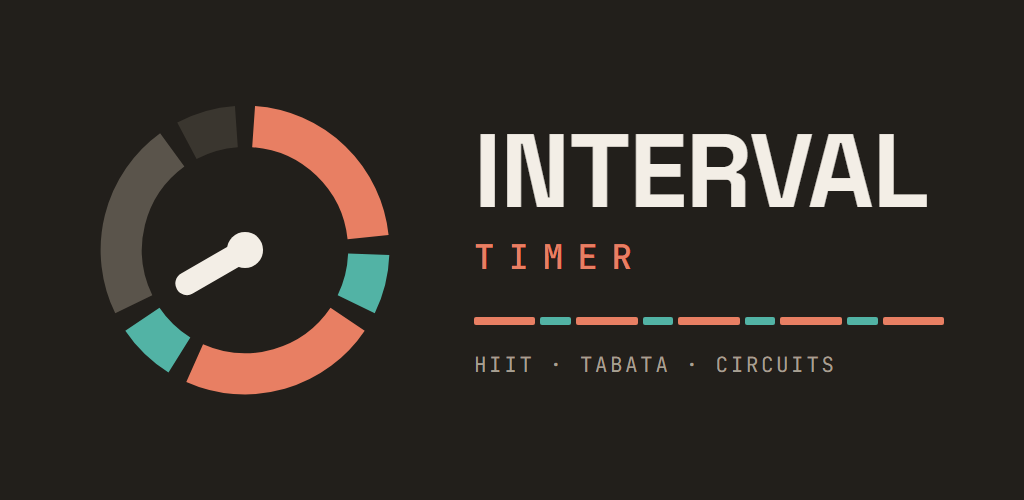
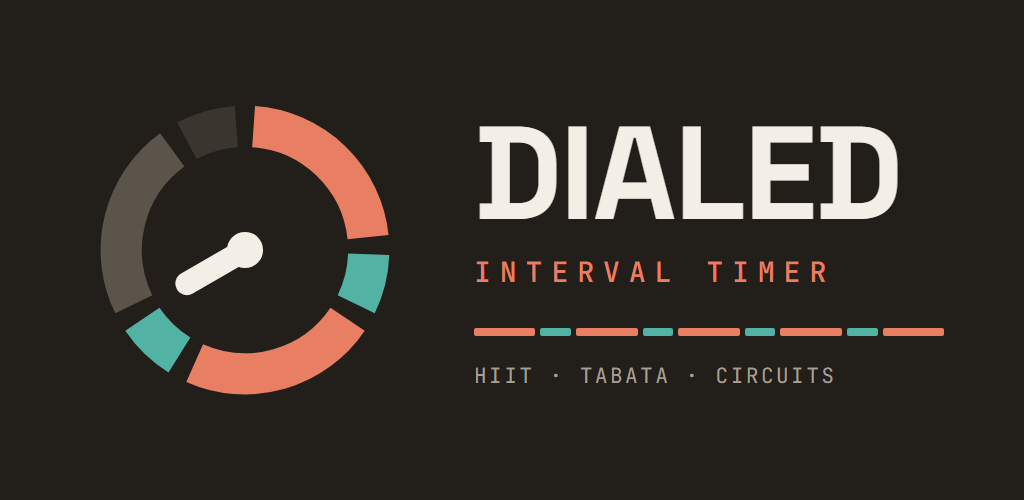
Rename the app to Dialed
The name people see is now "Dialed": the label on the phone and the watch
("Dialed Test" for debug builds), the Home wordmark (DIALED with INTERVAL
TIMER under it), the About line, the watch setup steps and the watch's
workout notification, which now reads the name from the app label.

Store listing, privacy policy (text and web page), feature graphic and the
Home screenshot are updated to match.

The package com.august.intervaltimer, the repo and the folder keep the old
name on purpose: a new package would be a different app to the phone, the
watch and Health Connect.

diff --git a/app/src/main/java/com/august/intervaltimer/ui/settings/DevicesCard.kt b/app/src/main/java/com/august/intervaltimer/ui/settings/DevicesCard.kt
@@ -107,7 +107,7 @@ fun DevicesCard(
         Spacer(Modifier.height(16.dp))
         if (!watchCues.loaded) {
             Text(
-                text = "Open Interval Timer on your watch once to load its settings here.",
+                text = "Open Dialed on your watch once to load its settings here.",
                 style = captionStyle(),
                 color = MaterialTheme.colorScheme.onSurfaceVariant,
             )
@@ -186,7 +186,7 @@ private fun WatchVersionsAndTemplates(watch: WatchDeviceState) {
         if (watch.connection == WatchConnection.CONNECTED) {
             Spacer(Modifier.height(8.dp))
             Text(
-                text = "Open Interval Timer on the watch to see its version and templates.",
+                text = "Open Dialed on the watch to see its version and templates.",
                 style = captionStyle(),
                 color = MaterialTheme.colorScheme.onSurfaceVariant,
             )
@@ -202,7 +202,7 @@ private fun WatchVersionsAndTemplates(watch: WatchDeviceState) {
     )
     if (watch.versionMismatch) {
         Text(
-            text = "Update Interval Timer on both the phone and the watch",
+            text = "Update Dialed on both the phone and the watch",
             style = captionStyle(),
             color = typeColor(IntervalType.WORK),
         )
@@ -277,14 +277,14 @@ fun TroubleshootingSteps(connection: WatchConnection) {
         WatchConnection.NO_WATCH -> listOf(
             "Pair the watch in the Pixel Watch or Galaxy Wearable app.",
             "Keep Bluetooth on, on the phone and the watch.",
-            "Install Interval Timer on the watch from the Play Store.",
+            "Install Dialed on the watch from the Play Store.",
         )
         WatchConnection.APP_MISSING -> listOf(
-            "Install Interval Timer on the watch: open the Play Store on the watch and look under Apps on your phone.",
-            "Open Interval Timer on the watch once.",
+            "Install Dialed on the watch: open the Play Store on the watch and look under Apps on your phone.",
+            "Open Dialed on the watch once.",
         )
         WatchConnection.NOT_REACHABLE -> listOf(
-            "Open Interval Timer on the watch.",
+            "Open Dialed on the watch.",
             "Check that Bluetooth is on.",
             "Keep the watch near the phone.",
         )

diff --git a/store/graphics/src/feature.html b/store/graphics/src/feature.html
@@ -5,10 +5,10 @@
 @font-face{font-family:"JetBrains Mono";src:url("../../../core/src/main/res/font/jetbrains_mono.ttf");font-weight:100 800}
 html,body{margin:0;width:1024px;height:500px;overflow:hidden;background:#221F1B}
 .wrap{position:absolute;inset:0;display:flex;align-items:center;justify-content:center;gap:64px}
-h1{margin:0;font-family:"Space Grotesk",sans-serif;font-weight:700;font-size:104px;line-height:.95;
-  letter-spacing:-1px;color:#F3EEE6}
-.timer{margin-top:14px;font-family:"JetBrains Mono",monospace;font-weight:500;font-size:34px;
-  letter-spacing:14px;color:#E87F63}
+h1{margin:0;font-family:"Space Grotesk",sans-serif;font-weight:700;font-size:132px;line-height:.95;
+  letter-spacing:-2px;color:#F3EEE6}
+.timer{margin-top:16px;font-family:"JetBrains Mono",monospace;font-weight:500;font-size:28px;
+  letter-spacing:9px;color:#E87F63}
 .strip{display:flex;gap:5px;margin-top:38px;width:470px}
 .strip i{display:block;height:8px;border-radius:2px}
 .w{background:#E87F63;flex:2}.r{background:#52B3A5;flex:1}
@@ -27,8 +27,8 @@ h1{margin:0;font-family:"Space Grotesk",sans-serif;font-weight:700;font-size:104
     <circle cx="54" cy="54" r="3.5" fill="#F3EEE6"/>
   </svg>
   <div>
-    <h1>INTERVAL</h1>
-    <div class="timer">TIMER</div>
+    <h1>DIALED</h1>
+    <div class="timer">INTERVAL TIMER</div>
     <div class="strip"><i class="w"></i><i class="r"></i><i class="w"></i><i class="r"></i><i class="w"></i><i class="r"></i><i class="w"></i><i class="r"></i><i class="w"></i></div>
     <div class="tag">HIIT · TABATA · CIRCUITS</div>
   </div>

diff --git a/store/privacy-policy.html b/store/privacy-policy.html
@@ -5,7 +5,7 @@
 <head>
 <meta charset="utf-8">
 <meta name="viewport" content="width=device-width, initial-scale=1">
-<title>Privacy Policy — Interval Timer</title>
+<title>Privacy Policy — Dialed</title>
 <style>
   :root { color-scheme: light dark; }
   body { margin: 0; background: #FAF6EE; color: #221F1B;
@@ -26,10 +26,10 @@
 </head>
 <body>
 <main>
-<h1>Privacy Policy — Interval Timer</h1>
+<h1>Privacy Policy — Dialed</h1>
 <p class="date">Last updated: 10 November 2026</p>
 
-<p>Interval Timer ("the app") is published by August. It has a phone app and a Wear OS watch app. This policy explains what they do with your information. The short version: your workouts stay on your own devices, and nothing is sent to the publisher or to anyone else.</p>
+<p>Dialed ("the app"), an interval timer for workouts, is published by August. It has a phone app and a Wear OS watch app. This policy explains what they do with your information. The short version: your workouts stay on your own devices, and nothing is sent to the publisher or to anyone else.</p>
 
 <h2>What the app collects</h2>
 <p>Nothing. The app has no account, no ads, no analytics and no crash reporting. There is no server: the publisher never receives any of your data. Neither the phone app nor the watch app asks for the internet permission, so they cannot send data anywhere themselves.</p>

diff --git a/app/src/main/java/com/august/intervaltimer/ui/LibraryScreen.kt b/app/src/main/java/com/august/intervaltimer/ui/LibraryScreen.kt
@@ -150,15 +150,15 @@ fun LibraryScreen(
                     }
                     if (isDial()) {
                         // The wordmark.
-                        Text(text = "INTERVAL", style = DialType.title)
+                        Text(text = "DIALED", style = DialType.title)
                         Text(
-                            text = "TIMER",
+                            text = "INTERVAL TIMER",
                             style = DialType.label.copy(letterSpacing = 4.sp),
                             color = MaterialTheme.colorScheme.primary,
                         )
                     } else {
                         Text(
-                            text = "Interval timer",
+                            text = "Dialed",
                             style = MaterialTheme.typography.headlineMedium,
                         )
                         Spacer(Modifier.height(6.dp))

diff --git a/wear/src/main/java/com/august/intervaltimer/workout/WorkoutService.kt b/wear/src/main/java/com/august/intervaltimer/workout/WorkoutService.kt
@@ -185,7 +185,7 @@ class WorkoutService : Service() {
         val text = statusText(state)
         val builder = NotificationCompat.Builder(this, CHANNEL_ID)
             .setSmallIcon(R.drawable.ic_timer_notification)
-            .setContentTitle("Interval Timer")
+            .setContentTitle(getString(R.string.app_name))
             .setContentText(text)
             .setCategory(NotificationCompat.CATEGORY_WORKOUT)
             .setOngoing(true)

diff --git a/app/src/main/java/com/august/intervaltimer/ui/PhoneSettingsScreen.kt b/app/src/main/java/com/august/intervaltimer/ui/PhoneSettingsScreen.kt
@@ -419,7 +419,7 @@ private fun AboutCard() {
     SettingsCard {
         Row(verticalAlignment = Alignment.CenterVertically) {
             Text(
-                text = "Interval Timer $version".labelCase(),
+                text = "Dialed $version".labelCase(),
                 style = if (isDial()) DialType.label else MaterialTheme.typography.titleMedium,
                 modifier = Modifier.weight(1f),
             )

diff --git a/app/src/main/java/com/august/intervaltimer/data/WatchDevice.kt b/app/src/main/java/com/august/intervaltimer/data/WatchDevice.kt
@@ -31,7 +31,7 @@ enum class WatchConnection {
     /** No watch is paired, or none is known to this phone. */
     NO_WATCH,
 
-    /** A watch is connected but Interval Timer is not installed on it. */
+    /** A watch is connected but the app is not installed on it. */
     APP_MISSING,
 
     /** The watch has the app but cannot be reached right now. */

diff --git a/store/listing.md b/store/listing.md
@@ -5,15 +5,15 @@ Character limits are Play's; counts are for the text as written here.
 
 ## App name (30 max)
 
-Interval Timer
+Dialed
 
-Many apps on Play share this exact name. Play allows that, but a name people
-can search for helps. Two alternatives that fit the limit, if you want one:
+"Dialed" on its own says nothing about what the app does to someone searching
+the store. The store title may be longer than the name under the icon, so this
+is worth considering (it fits the limit):
 
-- `Interval Timer: HIIT & Tabata` (29)
-- `Dial Interval Timer` (19)
+- `Dialed: Interval Timer` (22)
 
-The name on the phone's home screen stays "Interval Timer" either way.
+The name on the phone's home screen and the watch stays "Dialed" either way.
 
 ## Short description (80 max — 76 used)
 
@@ -21,7 +21,7 @@ Interval timer for HIIT, Tabata and circuits. Phone and Wear OS, no account.
 
 ## Full description (4000 max)
 
-Interval Timer is a workout timer built around one idea: finish the interval you are in. A segmented ring shows the whole session at a glance, the countdown is big enough to read from across the room, and the app tells you what is next before it arrives.
+Dialed is a workout interval timer built around one idea: finish the interval you are in. A segmented ring shows the whole session at a glance, the countdown is big enough to read from across the room, and the app tells you what is next before it arrives.
 
 BUILD A WORKOUT IN SECONDS
 • Quick session: set rounds, work and rest, and go

diff --git a/CLAUDE.md b/CLAUDE.md
@@ -1,6 +1,8 @@
-# Interval Timer — notes for Claude
+# Dialed — notes for Claude
 
 Workout interval timer: a phone app and a Wear OS watch app that stay in step.
+The app is called "Dialed" (renamed from "Interval Timer" on 2026-11-10); the
+folder, the GitHub repo and the package keep the old name on purpose.
 Package `com.august.intervaltimer` (both apps). Kotlin, Compose, Room,
 DataStore, Wear Compose Material 3, Health Services, Health Connect.
 
@@ -34,7 +36,7 @@ policy, console answers and graphics.
   data.** On 2026-10-16 a swipe-to-delete test on the real phone removed 17
   workouts from the app and from Health Connect. Use the emulators, or the
   debug build, which is a separate app (`.test`) with its own empty data.
-- **Never send taps or keys to the real phone unless Interval Timer is the app
+- **Never send taps or keys to the real phone unless Dialed is the app
   in front**, and prefer the emulators. On 2026-11-10 taps meant for the app
   landed in another app the owner was using. Never send `KEYCODE_BACK` to it.
 - Ask before deleting data, granting permissions or anything destructive.

diff --git a/README.md b/README.md
@@ -1,4 +1,7 @@
-# Interval Timer
+# Dialed
+
+(The app was called "Interval Timer" until November 2026; the folder, the
+GitHub repo and the package `com.august.intervaltimer` keep the old name.)
 
 A workout interval timer for Android: a phone app and a Wear OS watch app
 that stay in step. Build a workout on the phone, run it on either, and look
@@ -85,8 +88,8 @@ Option A — Android Studio (easiest, for trying things out):
 2. Let Gradle sync finish (first time takes a few minutes).
 3. Pick a device (emulator or your Pixel with USB/wireless debugging on) and press Run ▶.
 
-This installs the debug build, which is a separate app called "Interval Timer
-Test" with its own empty data. It is slower than the real one and safe to
+This installs the debug build, which is a separate app called "Dialed Test"
+with its own empty data. It is slower than the real one and safe to
 experiment in.
 
 Option B — the real app on your own phone and watch:

diff --git a/docs/DESIGN.md b/docs/DESIGN.md
@@ -178,6 +178,8 @@ Turning sync on and off (v0.16):
 Added on 2026-11-10 while preparing for Google Play. Not yet reviewed with
 August on real devices; change anything here that does not feel right.
 
+- The app is called **Dialed**. Home's wordmark is `DIALED` with
+  `INTERVAL TIMER` under it in the coral label style.
 - A phone workout keeps running when the screen is off or another app is in
   front. A notification shows the interval name, a live countdown, what is
   next, the session as a coloured bar, and `Pause`, `Skip`, `End`. Opening

diff --git a/store/privacy-policy.md b/store/privacy-policy.md
@@ -1,8 +1,8 @@
-# Privacy Policy — Interval Timer
+# Privacy Policy — Dialed
 
 Last updated: 10 November 2026
 
-Interval Timer ("the app") is published by August. It has a phone app and a
+Dialed ("the app"), an interval timer for workouts, is published by August. It has a phone app and a
 Wear OS watch app. This policy explains what they do with your information.
 The short version: your workouts stay on your own devices, and nothing is sent
 to the publisher or to anyone else.
